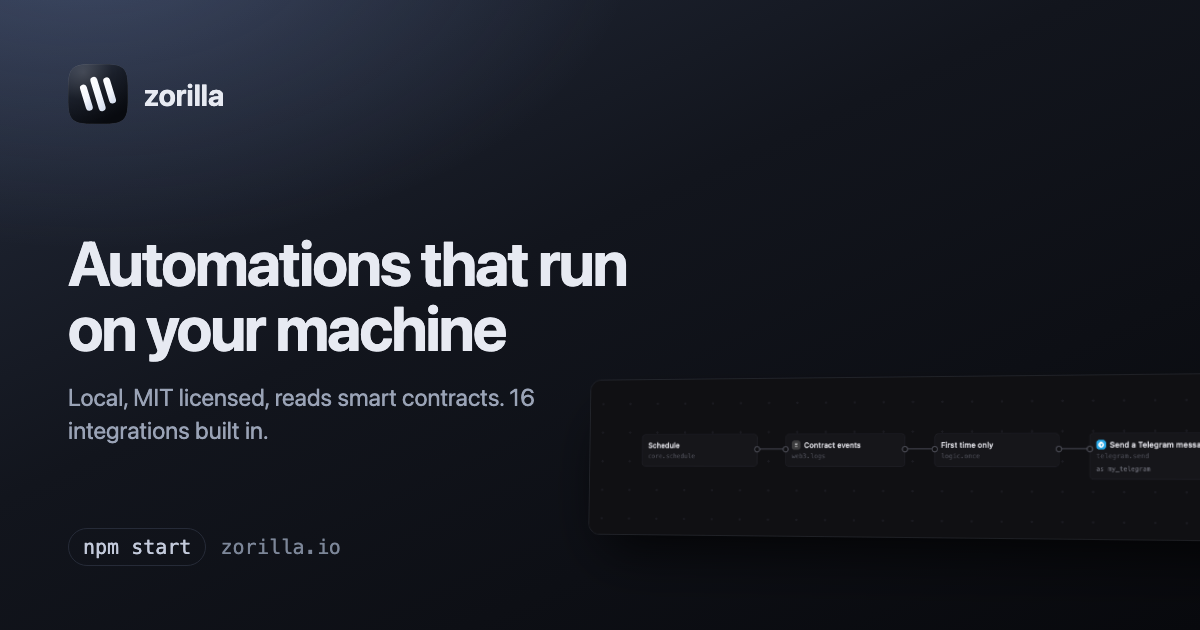
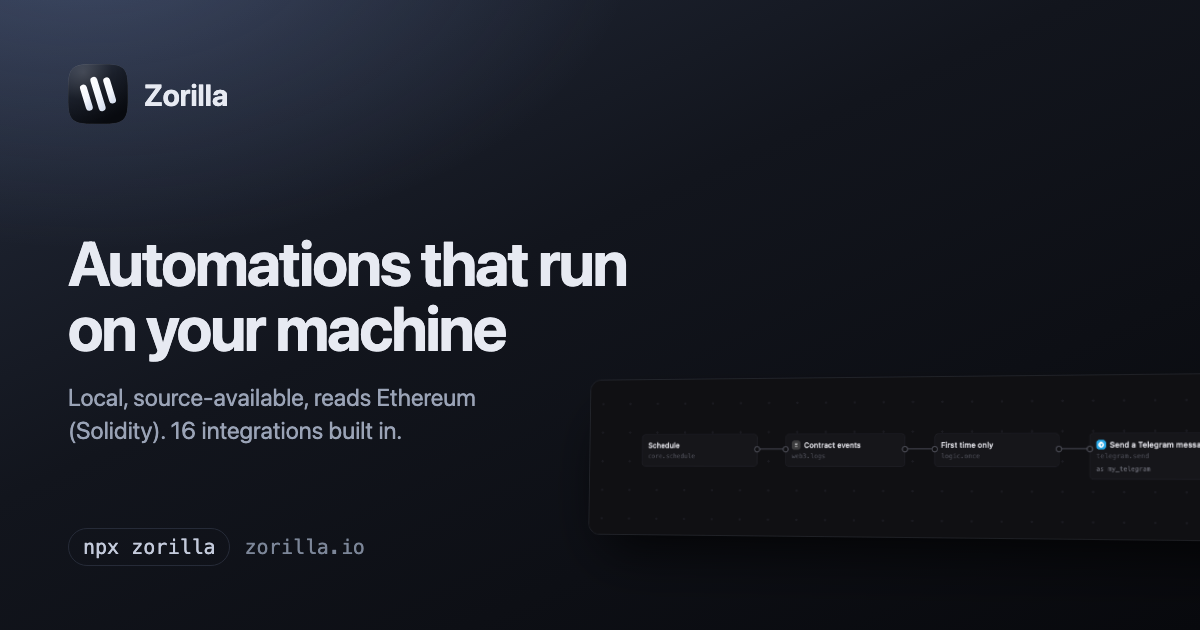
source links point at npm, license page, npm install command

Changed region(s): [[0.0617, 0.6032, 0.4625, 0.7238], [0.0925, 0.8444, 0.3083, 0.9048], [0.1233, 0.1206, 0.185, 0.181]]

diff --git a/app/page.js b/app/page.js
@@ -2,7 +2,7 @@ import Link from 'next/link'
 import catalog from '@/public/catalog.json'
 import { stats } from '@/lib/store'
 import { ThemePreview } from '@/components/ThemeCard'
-import { GithubMark } from '@/components/Icons'
+import { NpmMark } from '@/components/Icons'
 import Shot from '@/components/Shot'
 import UseCases from '@/components/UseCases'
 import CanvasPreview from '@/components/CanvasPreview'
@@ -38,7 +38,7 @@ const CASES = [
   },
   {
     id: 'community', slug: 'price-move-to-discord', who: 'Communities',
-    line: 'Announce a price move to Discord with @everyone, once',
+    line: 'Announce a price move to Discord with @everyone',
     why: 'Checks every ten minutes but stays quiet until the price is 5% away from the last thing it told you.',
     steps: [
       'every 10 minutes',
@@ -92,16 +92,16 @@ export default async function Home() {
               <li>Keys live in an encrypted vault on your disk and never leave it.</li>
               <li>Free, and the source is public.</li>
             </ul>
-            <CopyCommand command="npx github:getzorilla/zorillaApp" />
+            <CopyCommand command="npx zorilla" />
             <div className="cta">
               <Link href="/docs" className="btn primary">Docs</Link>
               <a
                 className="btn quiet"
-                href="https://github.com/getzorilla/zorillaApp"
+                href="https://unpkg.com/browse/zorilla@latest/"
                 target="_blank"
                 rel="noreferrer"
               >
-                <GithubMark size={15} /> Source
+                <NpmMark size={26} /> Source
               </a>
             </div>
             <p className="hero-note">

diff --git a/components/Icons.js b/components/Icons.js
@@ -3,6 +3,8 @@
 const GITHUB = 'M12 .297c-6.63 0-12 5.373-12 12 0 5.303 3.438 9.8 8.205 11.385.6.113.82-.258.82-.577 0-.285-.01-1.04-.015-2.04-3.338.724-4.042-1.61-4.042-1.61C4.422 18.07 3.633 17.7 3.633 17.7c-1.087-.744.084-.729.084-.729 1.205.084 1.838 1.236 1.838 1.236 1.07 1.835 2.809 1.305 3.495.998.108-.776.417-1.305.76-1.605-2.665-.3-5.466-1.332-5.466-5.93 0-1.31.465-2.38 1.235-3.22-.135-.303-.54-1.523.105-3.176 0 0 1.005-.322 3.3 1.23.96-.267 1.98-.399 3-.405 1.02.006 2.04.138 3 .405 2.28-1.552 3.285-1.23 3.285-1.23.645 1.653.24 2.873.12 3.176.765.84 1.23 1.91 1.23 3.22 0 4.61-2.805 5.625-5.475 5.92.42.36.81 1.096.81 2.22 0 1.606-.015 2.896-.015 3.286 0 .315.21.69.825.57C20.565 22.092 24 17.592 24 12.297c0-6.627-5.373-12-12-12'
 const X = 'M14.234 10.162 22.977 0h-2.072l-7.591 8.824L7.251 0H.258l9.168 13.343L.258 24H2.33l8.016-9.318L16.749 24h6.993zm-2.837 3.299-.929-1.329L3.076 1.56h3.182l5.965 8.532.929 1.329 7.754 11.09h-3.182z'
 
+const NPM = 'M0 7.334v8h6.666v1.332H12v-1.332h12v-8H0zm6.666 6.664H5.334v-4H3.999v4H1.335V8.667h5.331v5.331zm4 0v1.336H8.001V8.667h5.334v5.332h-2.669v-.001zm12.001 0h-1.33v-4h-1.336v4h-1.335v-4h-1.33v4h-2.671V8.667h8.002v5.331zM10.665 10H12v2.667h-1.335V10z'
+
 function Mark({ d, label, size = 15 }) {
   return (
     <svg
@@ -25,4 +27,8 @@ export function GithubMark(props) {
 
 export function XMark(props) {
   return <Mark d={X} label="X" {...props} />
+}
+
+export function NpmMark(props) {
+  return <Mark d={NPM} label="npm" {...props} />
 }

diff --git a/app/docs/page.js b/app/docs/page.js
@@ -115,12 +115,19 @@ export default async function Docs({ searchParams }) {
             </ul>
             <h3>Getting it</h3>
             <p>One command, which fetches it, starts it and opens the page:</p>
-            <pre><code>npx github:getzorilla/zorillaApp</code></pre>
-            <p>To keep a copy you can edit, clone it instead:</p>
-            <pre><code>{`git clone https://github.com/getzorilla/zorillaApp
-cd zorillaApp
+            <pre><code>npx zorilla</code></pre>
+            <p>To keep a copy you can edit, unpack the package instead:</p>
+            <pre><code>{`npm pack zorilla
+tar -xf zorilla-*.tgz
+cd package
 npm install
 npm start`}</code></pre>
+            <p>
+              The source is the package. Read it before you run it at{' '}
+              <a href="https://unpkg.com/browse/zorilla@latest/" target="_blank" rel="noreferrer">
+                unpkg.com/browse/zorilla
+              </a>, which serves the same files npm hands you.
+            </p>
             <p>
               Either way it opens at <code>http://127.0.0.1:5177</code>. There is no build step
               and no configuration file. Your workspace starts empty: nothing is installed on

diff --git a/components/Footer.js b/components/Footer.js
@@ -1,21 +1,22 @@
-import { GithubMark, XMark } from './Icons'
+import Link from 'next/link'
+import { NpmMark, XMark } from './Icons'
 
 export default function Footer() {
   return (
     <footer className="footer">
       <div className="page row wrap">
-        <a className="dimmer mono" href="https://github.com/getzorilla/zorillaApp/blob/main/LICENSE" target="_blank" rel="noreferrer">Zorilla, Elastic License 2.0</a>
+        <Link className="dimmer mono" href="/license">Zorilla, Elastic License 2.0</Link>
         <span className="spacer" />
         <a href="/marketplace">Marketplace</a>
         <a
           className="icon-link"
-          href="https://github.com/getzorilla/zorillaApp"
+          href="https://www.npmjs.com/package/zorilla"
           target="_blank"
           rel="noreferrer"
-          aria-label="Zorilla on GitHub"
-          title="GitHub"
+          aria-label="Zorilla on npm"
+          title="npm"
         >
-          <GithubMark size={16} />
+          <NpmMark size={28} />
         </a>
         <a
           className="icon-link"

diff --git a/components/Nav.js b/components/Nav.js
@@ -1,7 +1,7 @@
 import Link from 'next/link'
 import { currentUser } from '@/lib/auth'
 import SessionMenu from './SessionMenu'
-import { GithubMark } from './Icons'
+import { NpmMark } from './Icons'
 
 export default async function Nav() {
   const user = await currentUser()
@@ -20,13 +20,13 @@ export default async function Nav() {
         <span className="nav-end">
           <a
             className="link icon-link"
-            href="https://github.com/getzorilla/zorillaApp"
+            href="https://www.npmjs.com/package/zorilla"
             target="_blank"
             rel="noreferrer"
-            aria-label="Zorilla on GitHub"
-            title="GitHub"
+            aria-label="Zorilla on npm"
+            title="npm"
           >
-            <GithubMark size={16} />
+            <NpmMark size={28} />
           </a>
           <SessionMenu user={user ? { handle: user.handle, method: user.method } : null} />
         </span>

diff --git a/app/license/page.js b/app/license/page.js
@@ -1,0 +1,19 @@
+import { readFile } from 'node:fs/promises'
+import path from 'node:path'
+
+export const metadata = { title: 'License · Zorilla' }
+
+export default async function License() {
+  const text = await readFile(path.join(process.cwd(), 'public', 'license.txt'), 'utf8')
+
+  return (
+    <main className="page section">
+      <h2>License</h2>
+      <p className="sub">
+        Zorilla is under the Elastic License 2.0. You can read the source, run it, change it
+        and use it at work. You cannot sell it to other people as a hosted service.
+      </p>
+      <pre className="license">{text}</pre>
+    </main>
+  )
+}

diff --git a/app/globals.css b/app/globals.css
@@ -528,3 +528,9 @@ table.ref td.type { font-family: var(--mono); color: var(--dimmer); white-space:
 .item.listing { align-items: flex-start; gap: 20px; }
 .listing-preview { width: 300px; flex: none; }
 @media (max-width: 760px) { .listing-preview { display: none; } }
+
+.license {
+  margin-top: 22px; white-space: pre-wrap; font-size: 12.5px; line-height: 1.7;
+  color: var(--dim); background: var(--sunk); border: 1px solid var(--line);
+  border-radius: var(--radius); padding: 20px 22px; max-width: 78ch;
+}
